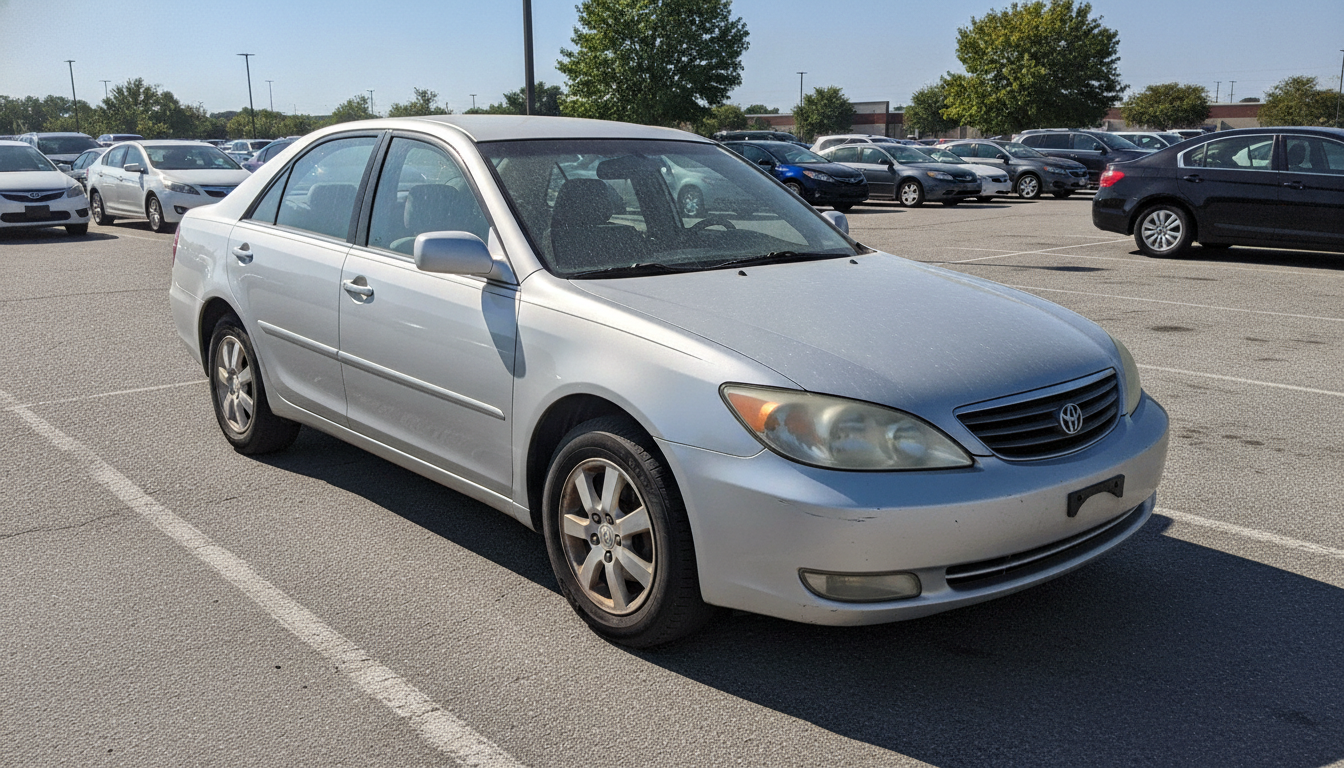
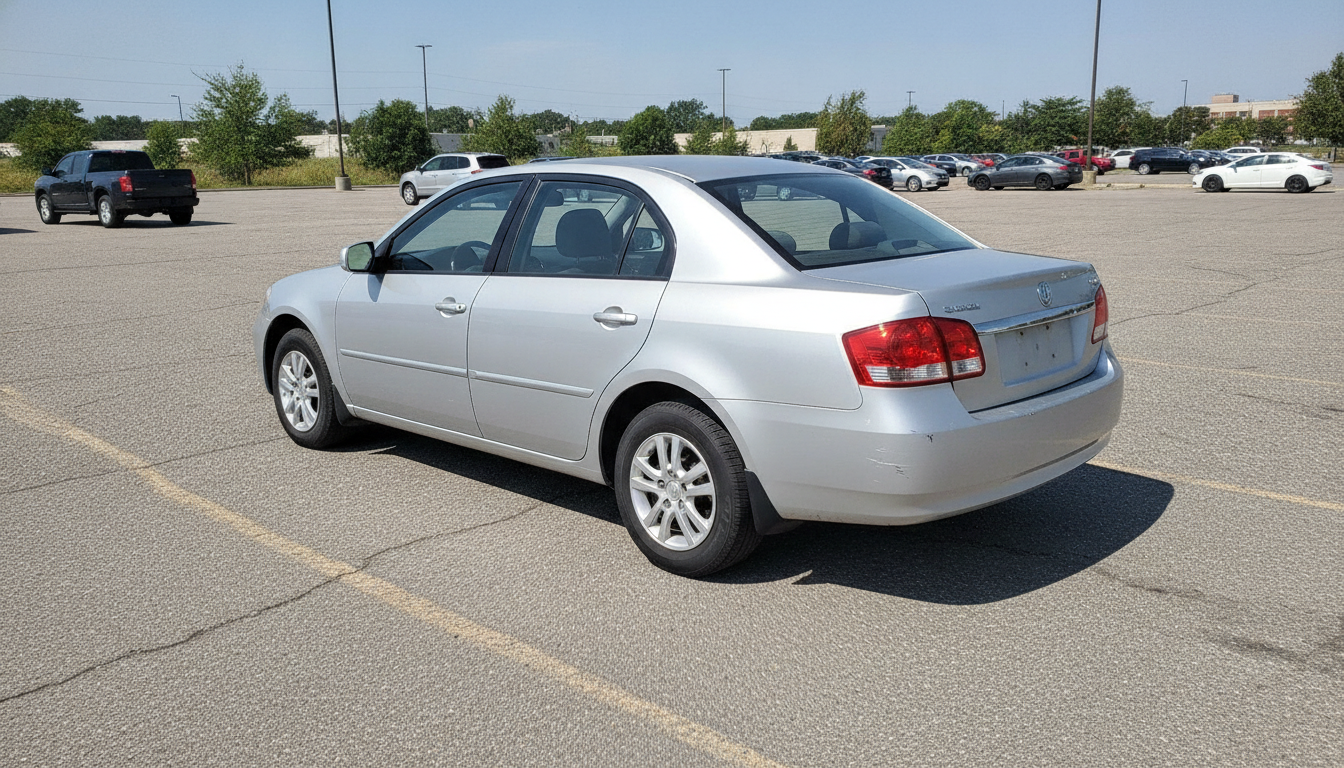
dzen: обновление RSS-лент каналов

diff --git a/public/dzen/panel.html b/public/dzen/panel.html
@@ -18,7 +18,7 @@ th{color:var(--mut);font-weight:600;font-size:11px;text-transform:uppercase;lett
 a{color:var(--acc)}.empty{color:var(--mut);text-align:center;padding:18px}
 </style></head><body><div class="wrap">
 <h1>Контент-фабрика Дзен — панель</h1>
-<div class="sub">Домен: https://criptoempire.com/dzen · обновлено 2026-07-02 16:42</div>
+<div class="sub">Домен: https://criptoempire.com/dzen · обновлено 2026-07-02 16:45</div>
 <div class="stats"><div class="stat"><b>3</b><span>каналов</span></div>
 <div class="stat"><b>3</b><span>статей</span></div><div class="stat"><b>0</b><span>опубликовано</span></div></div>
 
